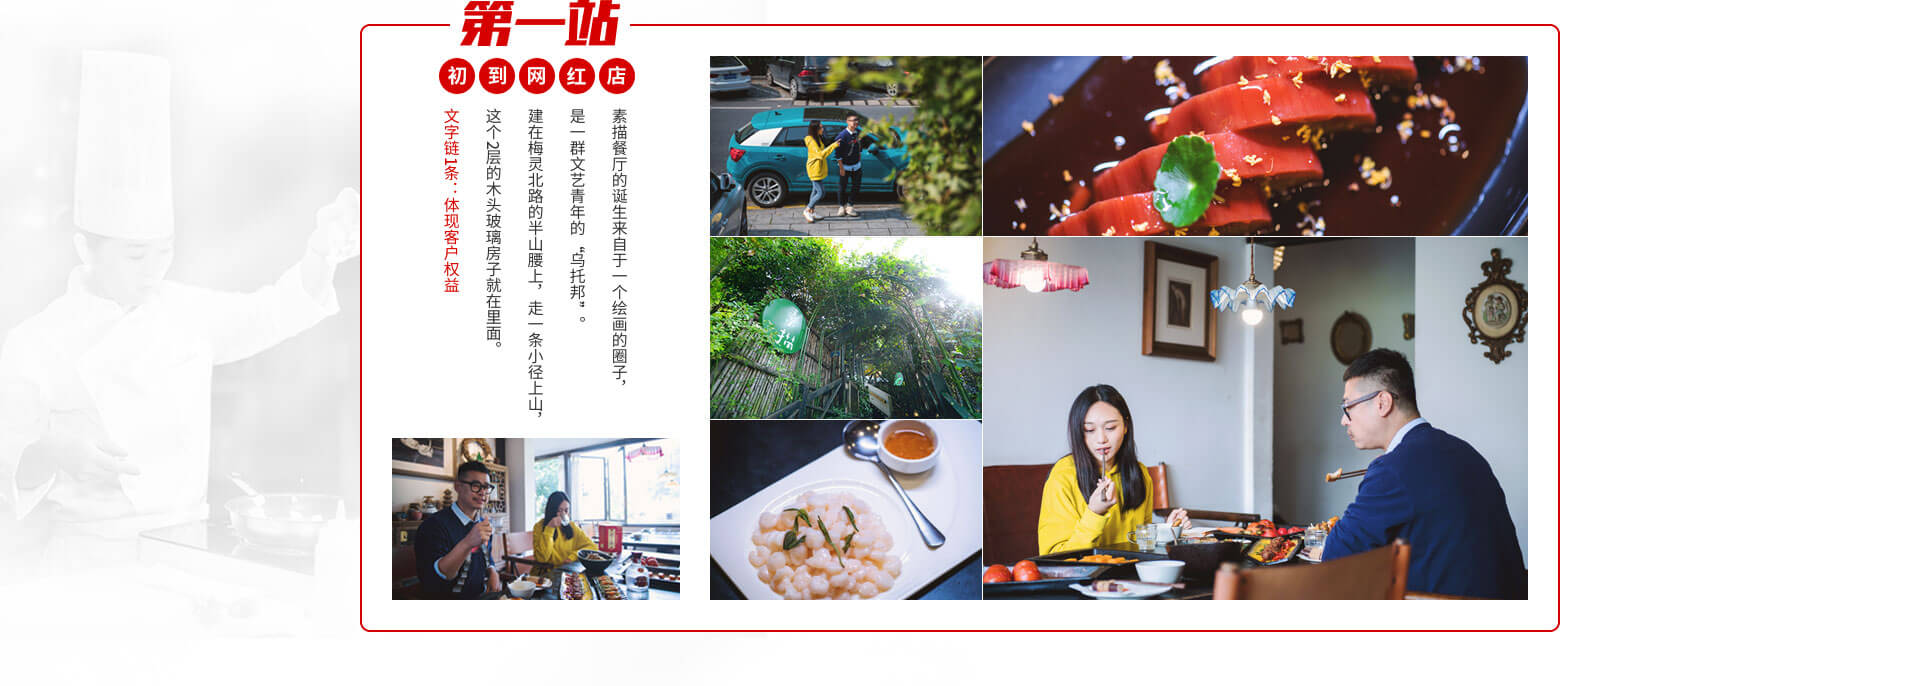
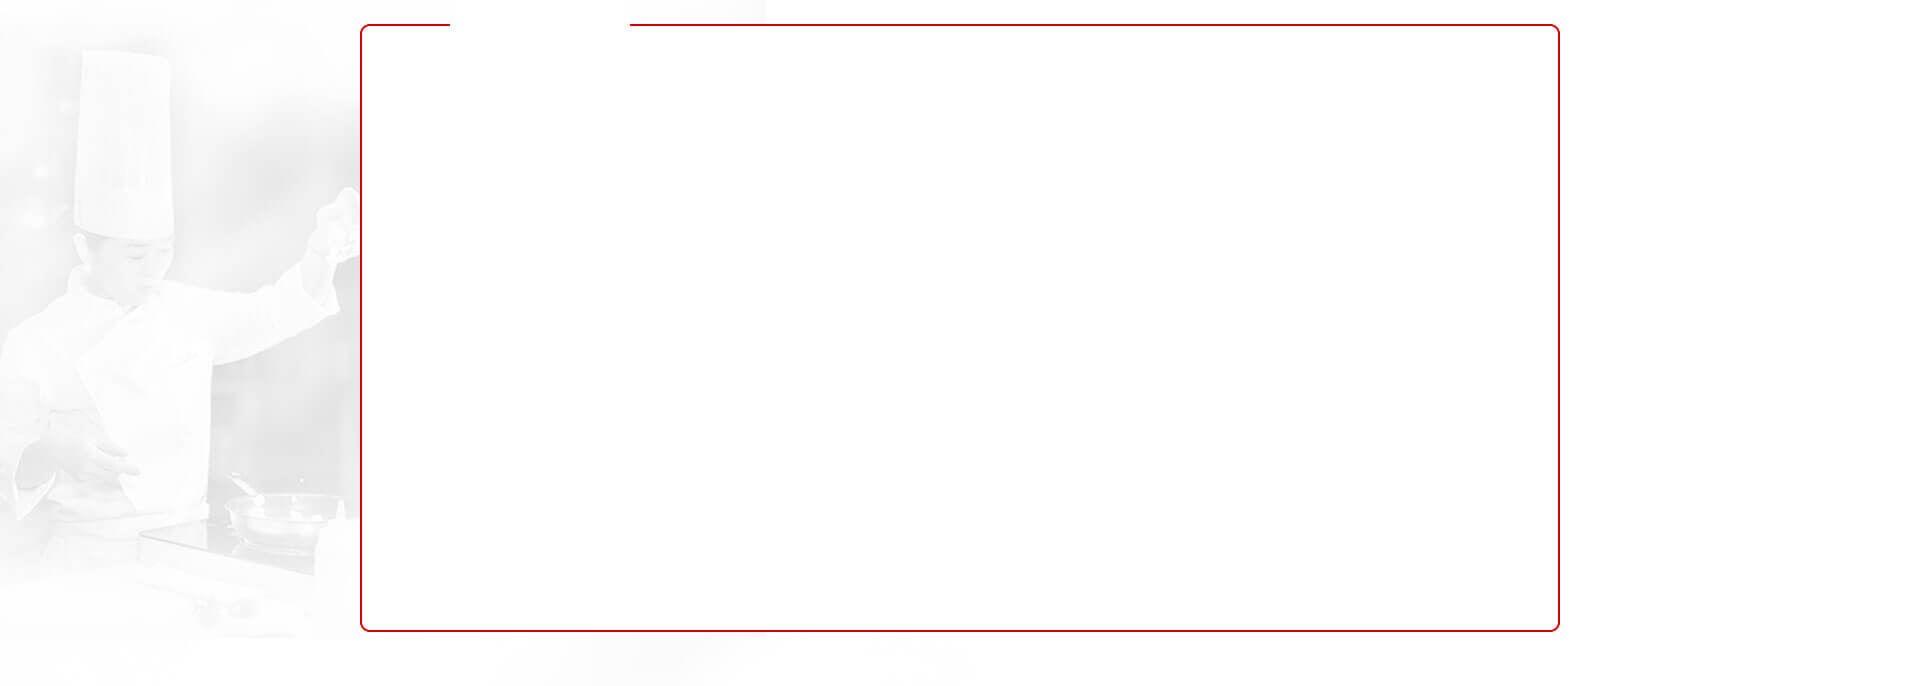
将三个区域切图分开 文案分开

diff --git a/20181224aodi/index.html b/20181224aodi/index.html
@@ -29,7 +29,7 @@
                     <div class="choice_2 choice"><img src="images/map_btn2.png" alt=""></div>
                 </div>
             </div>
-            
+
             <div class="video"><img src="images/video.png" alt=""></div>
             <div class="map"><img src="images/map.png" alt=""></div>
 
@@ -45,9 +45,42 @@
 
     </div>
 
-    <div class="station1 page"></div>
-    <div class="station2 page"></div>
-    <div class="station3 page"></div>
+    <div class="station1 page">
+        <div class="station1_box">
+            <div class="title"><img src="images/station1_title.png" alt=""></div>
+            <div class="pic1"><img src="images/station1_pic1.png" alt=""></div>
+            <div class="pic2"><img src="images/station1_pic2.png" alt=""></div>
+            <div class="pic3"><img src="images/station1_pic3.png" alt=""></div>
+            <div class="pic4"><img src="images/station1_pic4.png" alt=""></div>
+            <div class="pic5"><img src="images/station1_pic5.png" alt=""></div>
+            <div class="pic6"><img src="images/station1_pic6.png" alt=""></div>
+            <div class="text"><img src="images/station1_text.png" alt=""></div>
+            <div class="url"><a href="" target="_blank"><img src="images/station1_url.png" alt=""></a></div>
+        </div>
+    </div>
+    <div class="station2 page">
+        <div class="station2_box">
+            <div class="title"><img src="images/station2_title.png" alt=""></div>
+            <div class="pic1"><img src="images/station2_pic1.png" alt=""></div>
+            <div class="pic2"><img src="images/station2_pic2.png" alt=""></div>
+            <div class="pic3"><img src="images/station2_pic3.png" alt=""></div>
+            <div class="pic4"><img src="images/station2_pic4.png" alt=""></div>
+            <div class="text"><img src="images/station2_text.png" alt=""></div>
+        </div>
+    </div>
+    <div class="station3 page">
+        <div class="station3_box">
+            <div class="title"><img src="images/station3_title.png" alt=""></div>
+            <div class="pic1"><img src="images/station3_pic1.png" alt=""></div>
+            <div class="pic2"><img src="images/station3_pic2.png" alt=""></div>
+            <div class="pic3"><img src="images/station3_pic3.png" alt=""></div>
+            <div class="pic4"><img src="images/station3_pic4.png" alt=""></div>
+            <div class="pic5"><img src="images/station3_pic5.png" alt=""></div>
+            <div class="pic6"><img src="images/station3_pic6.png" alt=""></div>
+            <div class="pic7"><img src="images/station3_pic7.png" alt=""></div>
+            <div class="text"><img src="images/station3_text.png" alt=""></div>
+        </div>
+    </div>
     <div class="footer page"></div>
 </div>
 

diff --git a/20181224aodi/css/style.css b/20181224aodi/css/style.css
@@ -34,8 +34,42 @@ img{display: block; width: 100%}
 
 
 .station1{background: url("../images/station1.jpg") center top no-repeat; width: 100%; height: 686px}
+.station1_box{width: 1200px; height: 686px; position: absolute; left: 50%; top: 0; margin-left: -600px}
+.station1 .title{position: absolute; width: 196px; left: 79px; top: 0}
+.station1 .pic1{position: absolute; width: 288px; left: 32px; top: 438px}
+.station1 .pic2{position: absolute; width: 272px; left: 350px; top: 56px}
+.station1 .pic3{position: absolute; width: 545px; left: 623px; top: 56px}
+.station1 .pic4{position: absolute; width: 272px; left: 350px; top: 236px}
+.station1 .pic5{position: absolute; width: 272px; left: 350px; top: 420px}
+.station1 .pic6{position: absolute; width: 545px; left: 623px; top: 236px}
+.station1 .text{position: absolute; width: 141px; left: 126px; top: 108px}
+.station1 .url{position: absolute; width: 16px; left: 84px; top: 108px}
+
+
+
+
 .station2{background: url("../images/station2.jpg") center top no-repeat; width: 100%; height: 683px}
+.station2_box{width: 1200px; height: 683px; position: absolute; left: 50%; top: 0; margin-left: -600px}
+.station2 .title{position: absolute; width: 160px; left: 973px; top: 0}
+.station2 .pic1{position: absolute; width: 272px; left: 32px; top: 54px}
+.station2 .pic2{position: absolute; width: 272px; left: 305px; top: 54px}
+.station2 .pic3{position: absolute; width: 272px; left: 578px; top: 54px}
+.station2 .pic4{position: absolute; width: 288px; left: 870px; top: 436px}
+.station2 .text{position: absolute; width: 102px; left: 995px; top: 113px}
+
 .station3{background: url("../images/station3.jpg") center top no-repeat; width: 100%; height: 631px}
+.station3_box{width: 1200px; height: 686px; position: absolute; left: 50%; top: 0; margin-left: -600px}
+.station3 .title{position: absolute; width: 160px; left: 109px; top: 0}
+.station3 .pic1{position: absolute; width: 545px; left: 350px; top: 55px}
+.station3 .pic2{position: absolute; width: 272px; left: 896px; top: 55px}
+.station3 .pic3{position: absolute; width: 272px; left: 896px; top: 236px}
+.station3 .pic4{position: absolute; width: 272px; left: 350px; top: 420px}
+.station3 .pic5{position: absolute; width: 272px; left: 623px; top: 420px}
+.station3 .pic6{position: absolute; width: 272px; left: 897px; top: 420px}
+.station3 .pic7{position: absolute; width: 288px; left: 33px; top: 437px}
+.station3 .text{position: absolute; width: 141px; left: 118px; top: 112px}
+
+
 .footer{background: url("../images/footer.jpg") center top no-repeat; width: 100%; height: 201px}
 
 
